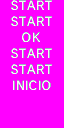
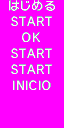
DSi theme: Make scrollbar work (#342)
* DSi theme: Make scroll bar work (Fixes #198)

* Add dragging the bar

* Change Japanese START text to say はじめる

* Make the START box hide and update the titles while using the scrollbar

Changed region(s): [[0.125, 0.0, 0.875, 0.0938]]

diff --git a/romsel_dsimenutheme/arm9/source/fileBrowse.cpp b/romsel_dsimenutheme/arm9/source/fileBrowse.cpp
@@ -28,6 +28,7 @@
 #include <sstream>
 #include <stdio.h>
 #include <dirent.h>
+#include <math.h>
 
 #include <nds.h>
 #include <maxmod9.h>
@@ -431,7 +432,7 @@ void updateScrollingState(u32 held, u32 pressed) {
 		)){
 		isScrolling = true;
 	} else if (!isHeld && !isPressed && !titleboxXmoveleft && !titleboxXmoveright) {
-		isScrolling = false; 
+		isScrolling = false;
 	} 
 
 }
@@ -1186,6 +1187,72 @@ string browseForFile(const vector<string> extensionList, const char* username)
 						defer(reloadFontTextures);
 					}
 				}
+			} else if (((pressed & KEY_TOUCH) && touch.py > 171 && touch.px >= 30 && touch.px <= 227 && theme == 0 && !titleboxXmoveleft && !titleboxXmoveright))		// Scroll bar (DSi theme))
+			{
+				touchPosition startTouch = touch;
+				showSTARTborder = false;
+				while(1) {
+					// pressed = keysDown();
+					// held = keysDownRepeat();
+					scanKeys();
+					touchRead(&touch);
+
+					if (!(keysHeld() & KEY_TOUCH)) break;
+
+					cursorPosition[secondaryDevice] = floor((touch.px-30)/4.925);
+					if(cursorPosition[secondaryDevice] > 39) {
+						cursorPosition[secondaryDevice] = 39;
+						titlewindowXpos[secondaryDevice] = 192.075;
+						titleboxXpos[secondaryDevice] = 2496;
+					} else if(cursorPosition[secondaryDevice] < 0) {
+						cursorPosition[secondaryDevice] = 0;
+						titlewindowXpos[secondaryDevice] = 0;
+						titleboxXpos[secondaryDevice] = 0;
+					} else {
+						titlewindowXpos[secondaryDevice] = touch.px-30;
+						titleboxXpos[secondaryDevice] = (touch.px-30)/4.925 * 64;
+					}
+					
+
+					// Load icons
+					if (cursorPosition[secondaryDevice] <= 1) {
+						for(int i = 0; i < 5; i++) {
+							swiWaitForVBlank();
+							if (bnrRomType[i] == 0 && i+pagenum[secondaryDevice]*40 < file_count) {
+								iconUpdate(dirContents[scrn].at(i+pagenum[secondaryDevice]*40).isDirectory, dirContents[scrn].at(i+pagenum[secondaryDevice]*40).name.c_str(), i);
+							}
+						}
+					} else if (cursorPosition[secondaryDevice] >= 2 && cursorPosition[secondaryDevice] <= 36) {
+						for(int i = 0; i < 6; i++) {
+							swiWaitForVBlank();
+							if (bnrRomType[i] == 0 && (cursorPosition[secondaryDevice]-2+i)+pagenum[secondaryDevice]*40 < file_count) {
+								iconUpdate(dirContents[scrn].at((cursorPosition[secondaryDevice]-2+i)+pagenum[secondaryDevice]*40).isDirectory, dirContents[scrn].at((cursorPosition[secondaryDevice]-2+i)+pagenum[secondaryDevice]*40).name.c_str(), cursorPosition[secondaryDevice]-2+i);
+							}
+						}
+					} else if (cursorPosition[secondaryDevice] >= 37 && cursorPosition[secondaryDevice] <= 39) {
+						for(int i = 0; i < 5; i++) {
+							swiWaitForVBlank();
+							if (bnrRomType[i] == 0 && (35+i)+pagenum[secondaryDevice]*40 < file_count) {
+								iconUpdate(dirContents[scrn].at((35+i)+pagenum[secondaryDevice]*40).isDirectory, dirContents[scrn].at((35+i)+pagenum[secondaryDevice]*40).name.c_str(), 35+i);
+							}
+						}
+					}
+					clearText();
+					if(cursorPosition[secondaryDevice]+pagenum[secondaryDevice]*40 < ((int) dirContents[scrn].size() - 1)) {
+						showbubble = true;
+						titleUpdate(dirContents[scrn].at(cursorPosition[secondaryDevice]+pagenum[secondaryDevice]*40).isDirectory, dirContents[scrn].at(cursorPosition[secondaryDevice]+pagenum[secondaryDevice]*40).name.c_str(), cursorPosition[secondaryDevice]);
+					} else {
+						showbubble = false;
+					}
+				}
+				titleboxXpos[secondaryDevice] = cursorPosition[secondaryDevice] * 64;
+				waitForNeedToPlayStopSound = 1;
+				mmEffectEx(&snd_select);
+				boxArtLoaded = false;
+				settingsChanged = true;
+				touch = startTouch;
+				if(cursorPosition[secondaryDevice]+pagenum[secondaryDevice]*40 < ((int) dirContents[scrn].size() - 1))
+					showSTARTborder = true;
 			}
 
 			if (cursorPosition[secondaryDevice] < 0)
